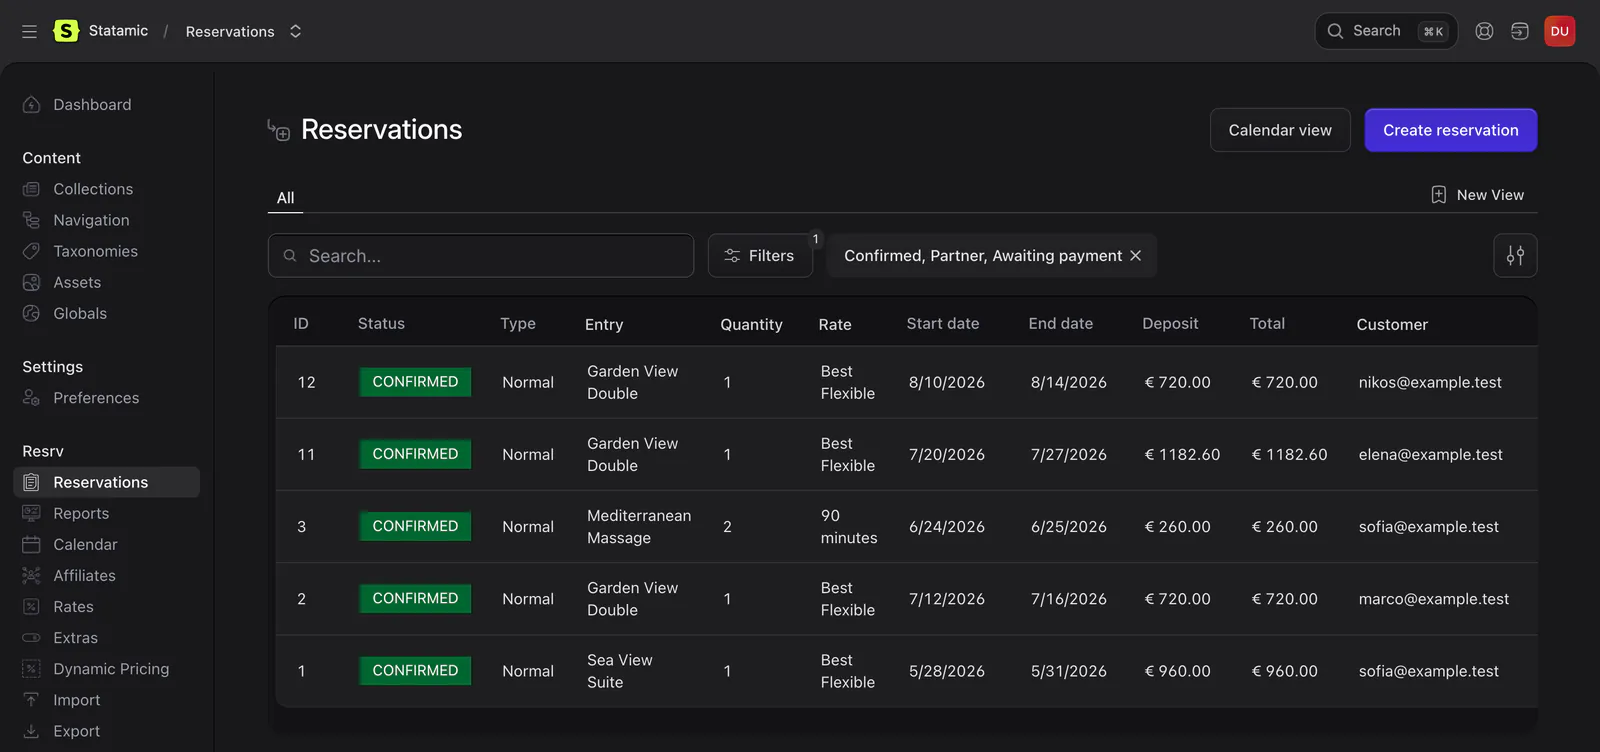
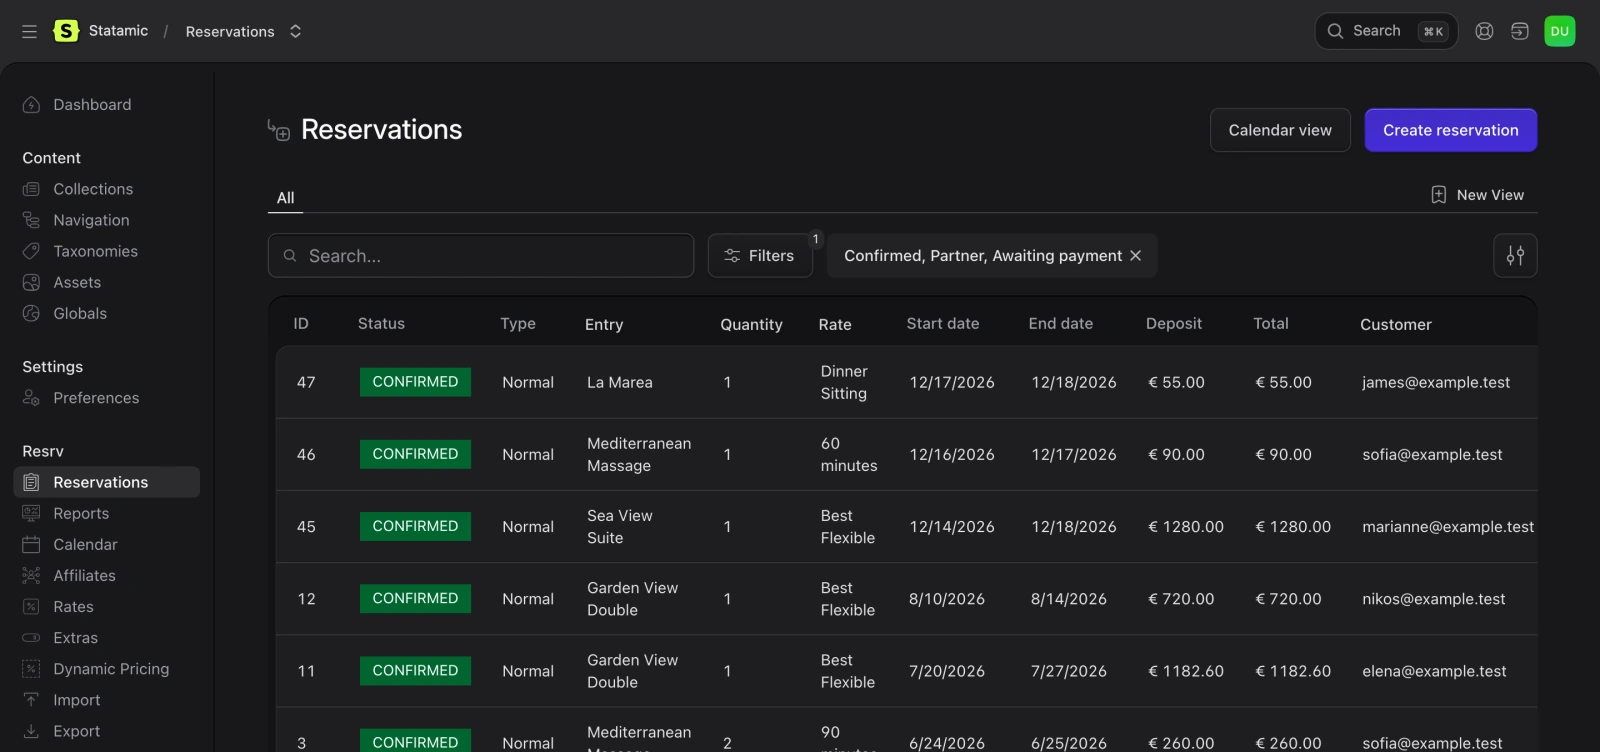
Show the same demo bookings in every control panel shot
The hero's list, the Reservations tab and Reports predated the three
December bookings the calendar shows, so the screenshots disagreed.
They're retaken with those bookings at the top of the list, and
Reports counts them: 8 reservations and EUR 5,267.60.
recapture-home-reservations-2x.mjs retakes them at the old framing.

On phones the calendar week shrank to 6px text. Below 640px it now
swaps to its own capture of Monday to Thursday, taken from a narrower
calendar, so the three bookings read at about 10px.

The redrawn Add rate and Continue buttons keep Statamic's darker
indigo in dark mode, where white on the lighter one read at 4.47:1.
Docs links at the end of a tick stay in one piece, the calendar cards
show their counts and prices a size up from 960px, and file names in
the code panels use the mono size. Selected text takes a wash of the
brand orange across the site. DESIGN.md records the phone calendar,
the button rule and the selection colour.

diff --git a/theme.css b/theme.css
@@ -8,6 +8,15 @@
   --blume-code-background: #1c1c1e;
 }
 
+/* Selected text takes a wash of the brand orange instead of the browser's blue */
+::selection {
+  background: color-mix(in oklab, #f56b3c 26%, transparent);
+}
+
+:root[data-theme="dark"] ::selection {
+  background: color-mix(in oklab, #f56b3c 38%, transparent);
+}
+
 /* Archivo is wider than Blume's default face: -0.05em heading tracking crowds it */
 h1,
 h2,

diff --git a/DESIGN.md b/DESIGN.md
@@ -234,14 +234,14 @@ Two surfaces share one system. The home page is the marketing surface and carrie
 One warm accent on a neutral ink-and-paper base, with the brand's amber and a borrowed Statamic indigo kept to tightly fenced roles.
 
 ### Primary
-- **Orange** (`{colors.orange}`): the brand orange from the logo. On dark it is the accent: links, filled buttons (with ink text) and focus rings. In both themes it is the first bar, the first step number, the guest-site caption dot and the closing band's filled button. Ink on Orange reads at 6.0:1.
+- **Orange** (`{colors.orange}`): the brand orange from the logo. On dark it is the accent: links, filled buttons (with ink text) and focus rings. In both themes it is the first bar, the first step number, the guest-site caption dot and the closing band's filled button. Ink on Orange reads at 6.0:1. A 26% wash of it (38% in dark) marks selected text across the site.
 - **Deep Orange** (`{colors.deep-orange}`): the light theme's accent. Links, the header's Buy pill, filled buttons with white text, tick icons, icon glyphs and "more" links. It exists because Orange fails as text on white (3.0:1); Deep Orange reaches 4.95:1. **Deep Orange Strong** (`{colors.deep-orange-strong}`) is its hover shade, and the text of the "New in" tag on light, where Deep Orange on the Orange Tint reads at only 4.3:1 and Strong reaches 5.9:1.
 
 ### Secondary
 - **Amber** (`{colors.amber}`): the logo's second bar. Only ever the second element in a sequence: the second bar of the step track, the second step number, the control panel caption dot and the control panel demo card's top bar. Never text, never a button.
 
 ### Tertiary
-- **Statamic Indigo** (`{colors.statamic-indigo}`, `{colors.statamic-indigo-night}` in dark) with **Statamic Green** (`{colors.statamic-green}`) and **Statamic Page** grey (`{colors.statamic-page}`): the control panel's own colors, borrowed only to redraw it. They appear inside the HTML panels that mirror the control panel (Add rate, the active fieldtype, availability counts, live rates) and nowhere else.
+- **Statamic Indigo** (`{colors.statamic-indigo}`, `{colors.statamic-indigo-night}` in dark) with **Statamic Green** (`{colors.statamic-green}`) and **Statamic Page** grey (`{colors.statamic-page}`): the control panel's own colors, borrowed only to redraw it. They appear inside the HTML panels that mirror the control panel (Add rate, the active fieldtype, availability counts, live rates) and nowhere else. Filled buttons (Add rate, Continue) keep `{colors.statamic-indigo}` in dark too, because white on the night indigo reads at only 4.47:1.
 
 ### Neutral
 - **Ink** (`{colors.ink}`): the brand ink. All headings and body text on light, the frame captions, the closing band in light, the third bar in light.
@@ -357,7 +357,9 @@ The "who it's for" and details lists are rows, not cards, each with a hairline a
 ### Product Frame (signature)
 Real screenshots sit in a browser frame: a paper-band chrome bar with three muted dots and a centered pill address showing the demo's real host and path, the screenshot below, 14px corners, a hairline and the product lift. An ink caption tag hangs off the bottom edge at a lower corner, half on the frame and half below it, so it names the screen without covering it; it carries a small rounded-square dot in Orange (guest site) or Amber (control panel). Control panel screenshots ship as light and dark pairs that swap with the theme.
 
-Below 560px a whole control panel screen would shrink to 4px text, so each one crops to a single region at about twice the size: a `.crop` box takes the image's width and its left and top offsets as custom properties. The hero's Reservations list drops Statamic's top bar and sidebar, and the tab viewer's three screens crop square, so the frame keeps its size between tabs. The calendar week crops to Monday to Thursday the same way, which keeps all three bookings in view.
+Below 560px a whole control panel screen would shrink to 4px text, so each one crops to a single region at about twice the size: a `.crop` box takes the image's width and its left and top offsets as custom properties. The hero's Reservations list drops Statamic's top bar and sidebar, and the tab viewer's three screens crop square, so the frame keeps its size between tabs. Below 640px the calendar week swaps, through `<picture>`, to its own capture of Monday to Thursday from a narrower calendar, which keeps all three bookings in view with text at about 10px.
+
+The list, Reports, hero and calendar screenshots all show the same demo data, with the three December bookings at the top of the list. `scripts/recapture-home-reservations-2x.mjs` and `scripts/recapture-home-calendar-2x.mjs` retake them; refund any test bookings in the testbed first.
 
 The hero's guest site is a desktop page, so it is art-directed with `<picture>` instead: below 900px the frame shows two rooms (the Coastal Family Room and the Sea View Suite), and below 560px the Sea View Suite alone at 4:5, with the sea in its photo. Both are cut from the 2x capture of the same search, `brand/statamic/screens/front-search-results.webp`, so the text stays sharp. On phones the checkout summary floats over ten of the twelve columns, so its numbers stay legible.
 
